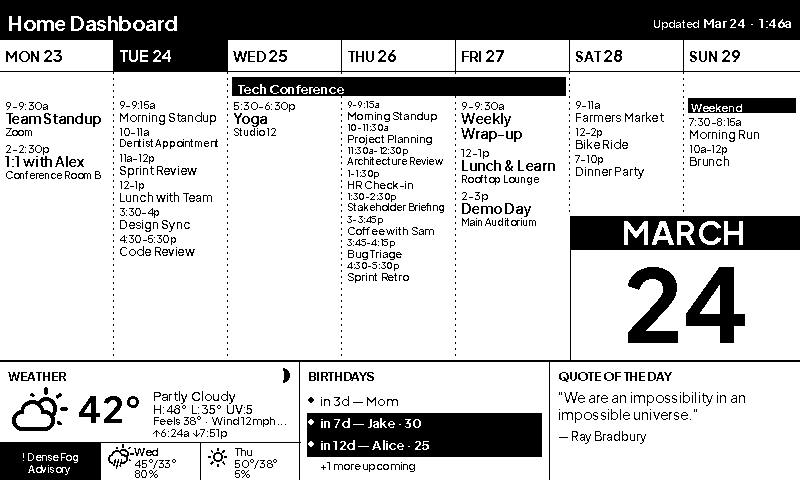
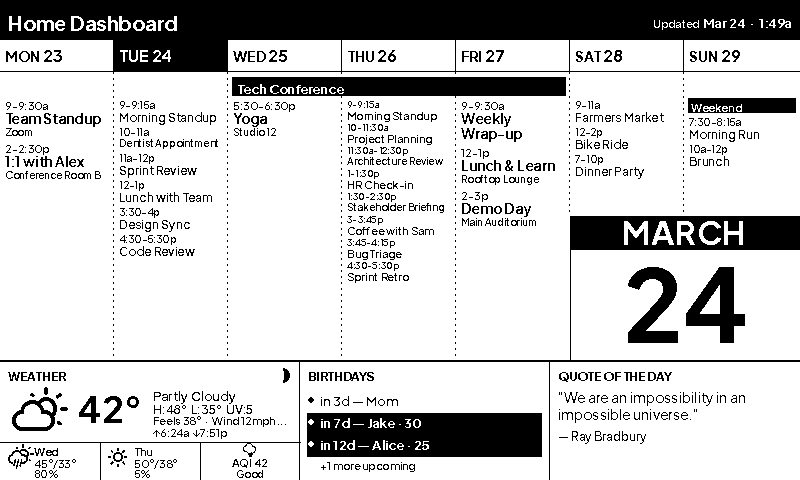
fix: show AQI column in default and fantasy preview by removing alert from dummy data
The dummy WeatherAlert suppressed the AQI forecast column (n_alerts==1 path
sets show_aqi_col=False). Clearing alerts lets the AQI cell render. Regenerated
output/theme_default.png and output/theme_fantasy.png.

https://claude.ai/code/session_01Dd8yp55JkRgGsmFmRqDH7E

Changed region(s): [[0.0, 0.9062, 0.2188, 1.0], [0.25, 0.9375, 0.3438, 1.0], [0.9688, 0.0312, 1.0, 0.0625]]

diff --git a/src/dummy_data.py b/src/dummy_data.py
@@ -196,7 +196,7 @@ def generate_dummy_data(tz: tzinfo | None = None, now: datetime | None = None) -
                 icon="09d", description="drizzle", precip_chance=0.60,
             ),
         ],
-        alerts=[WeatherAlert(event="Dense Fog Advisory")],
+        alerts=[],
         feels_like=38.0,
         wind_speed=12.0,
         wind_deg=315.0,
